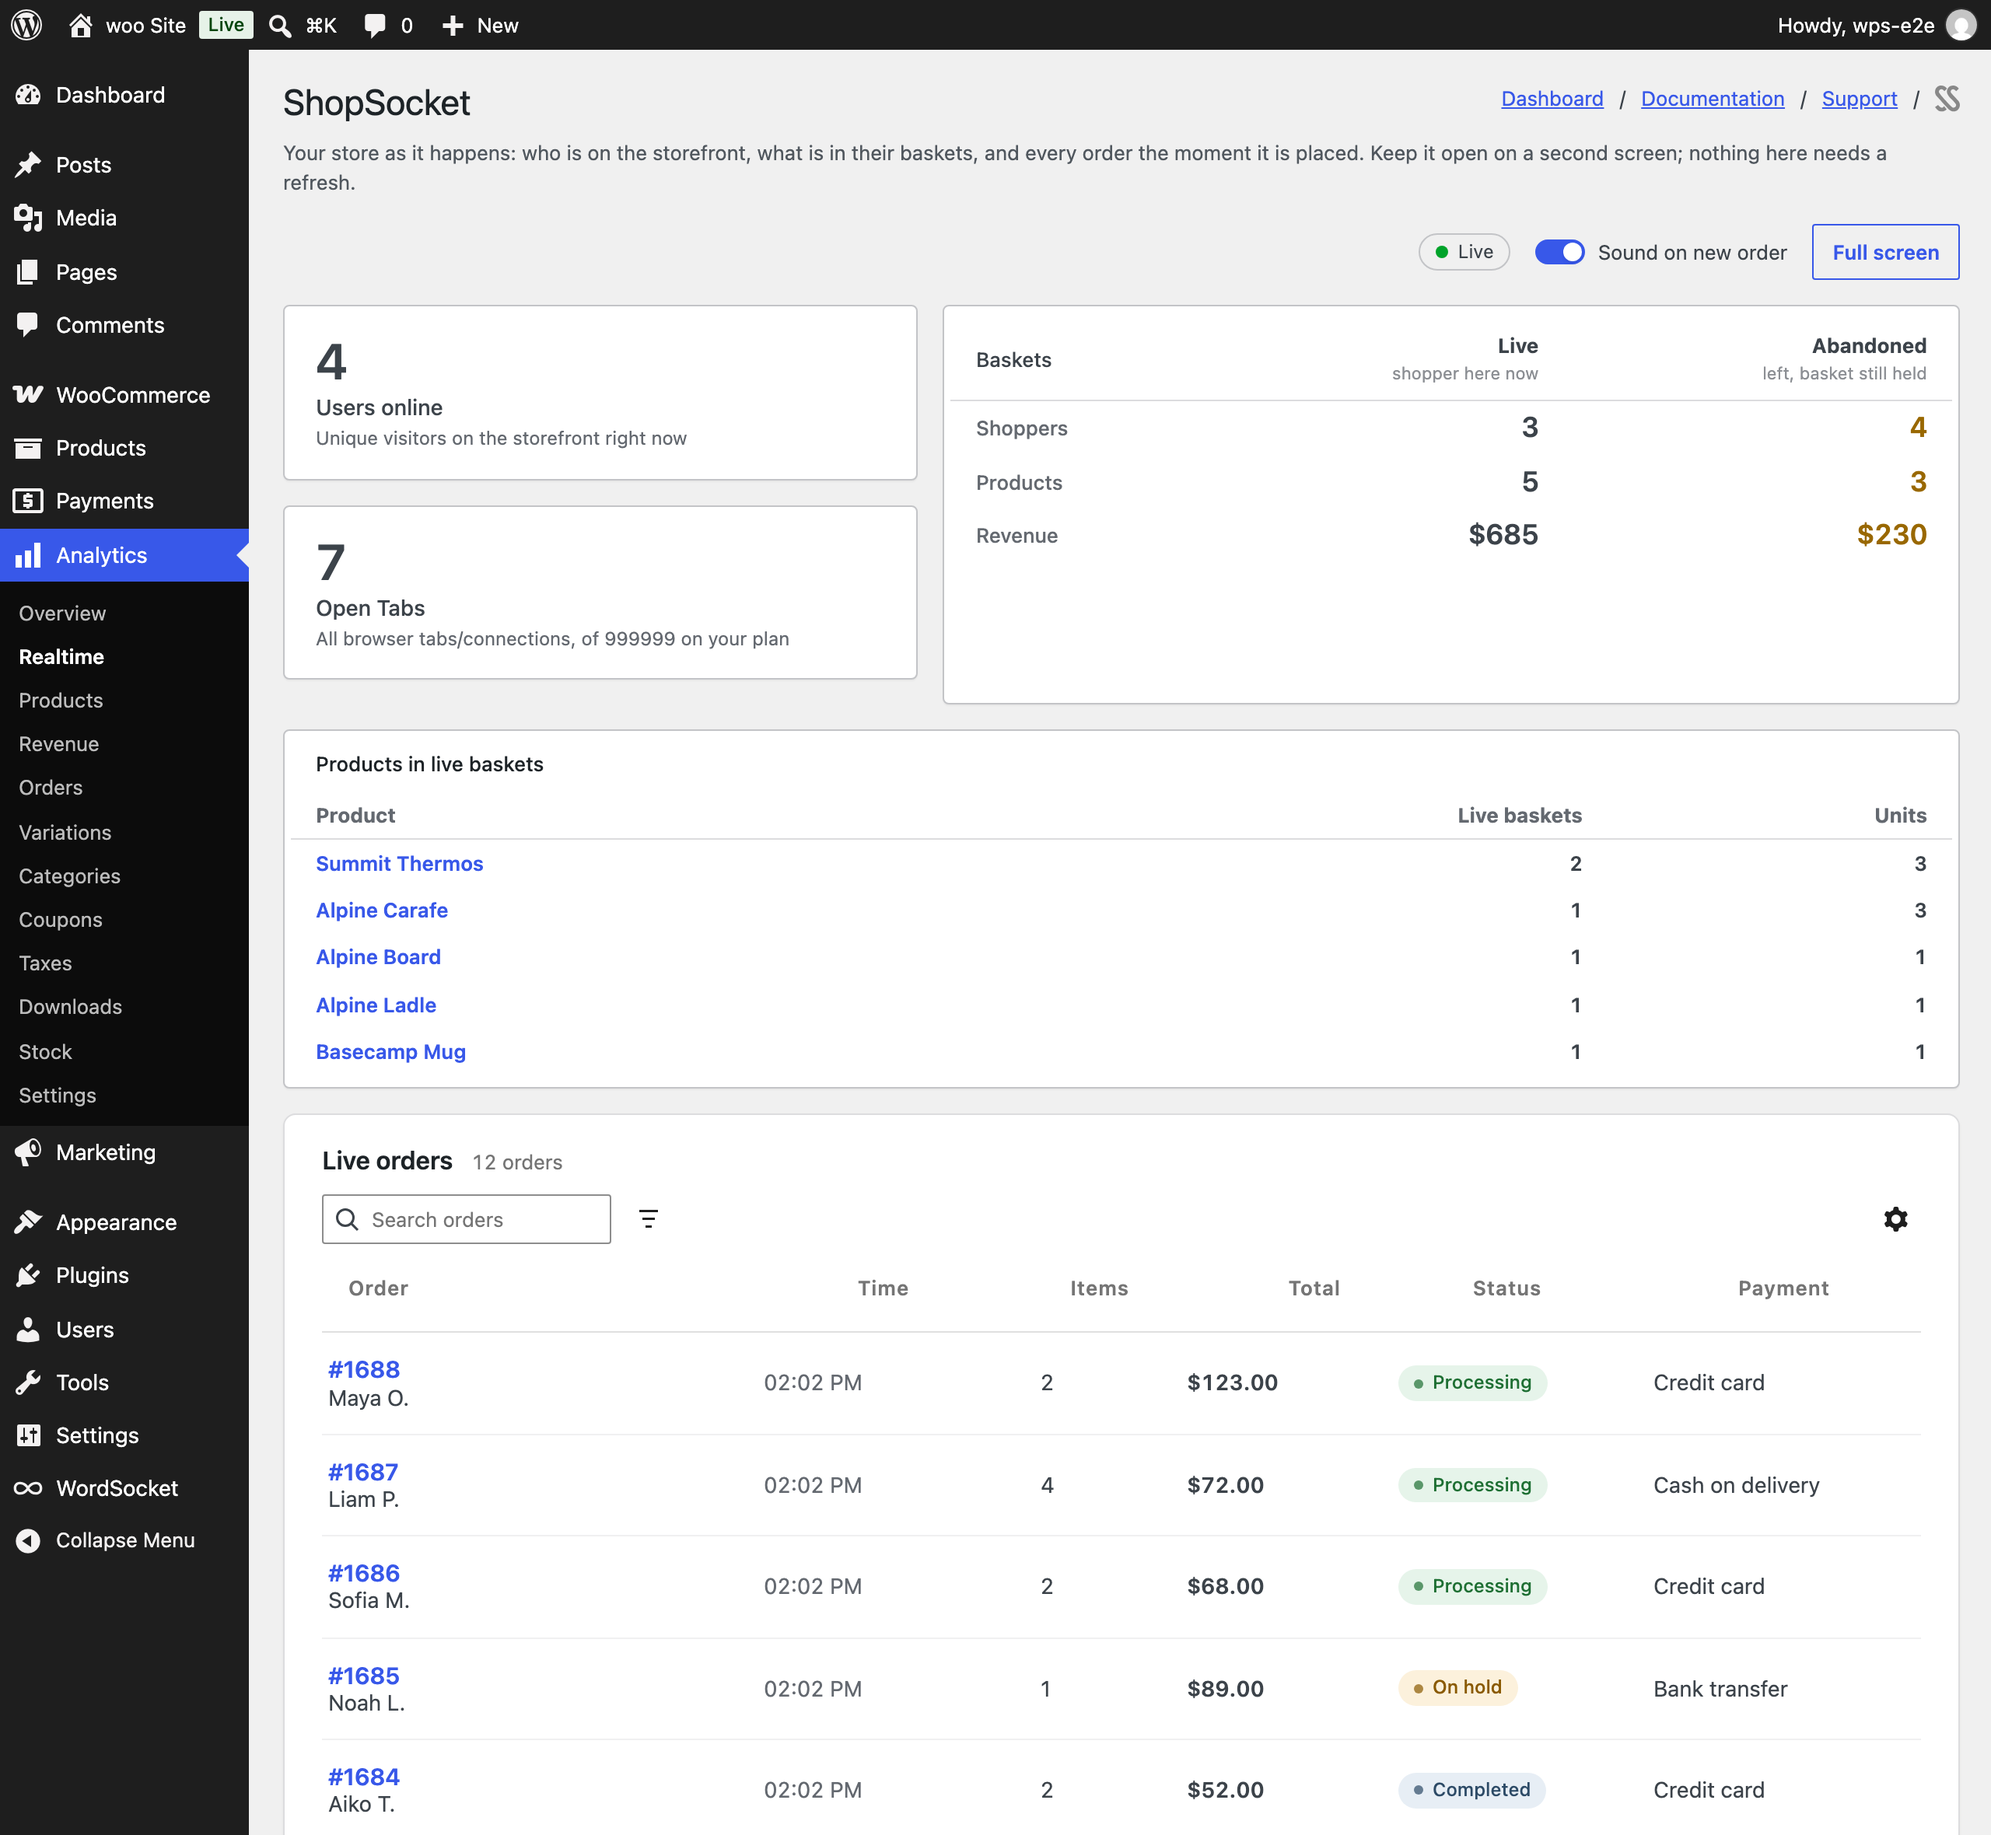
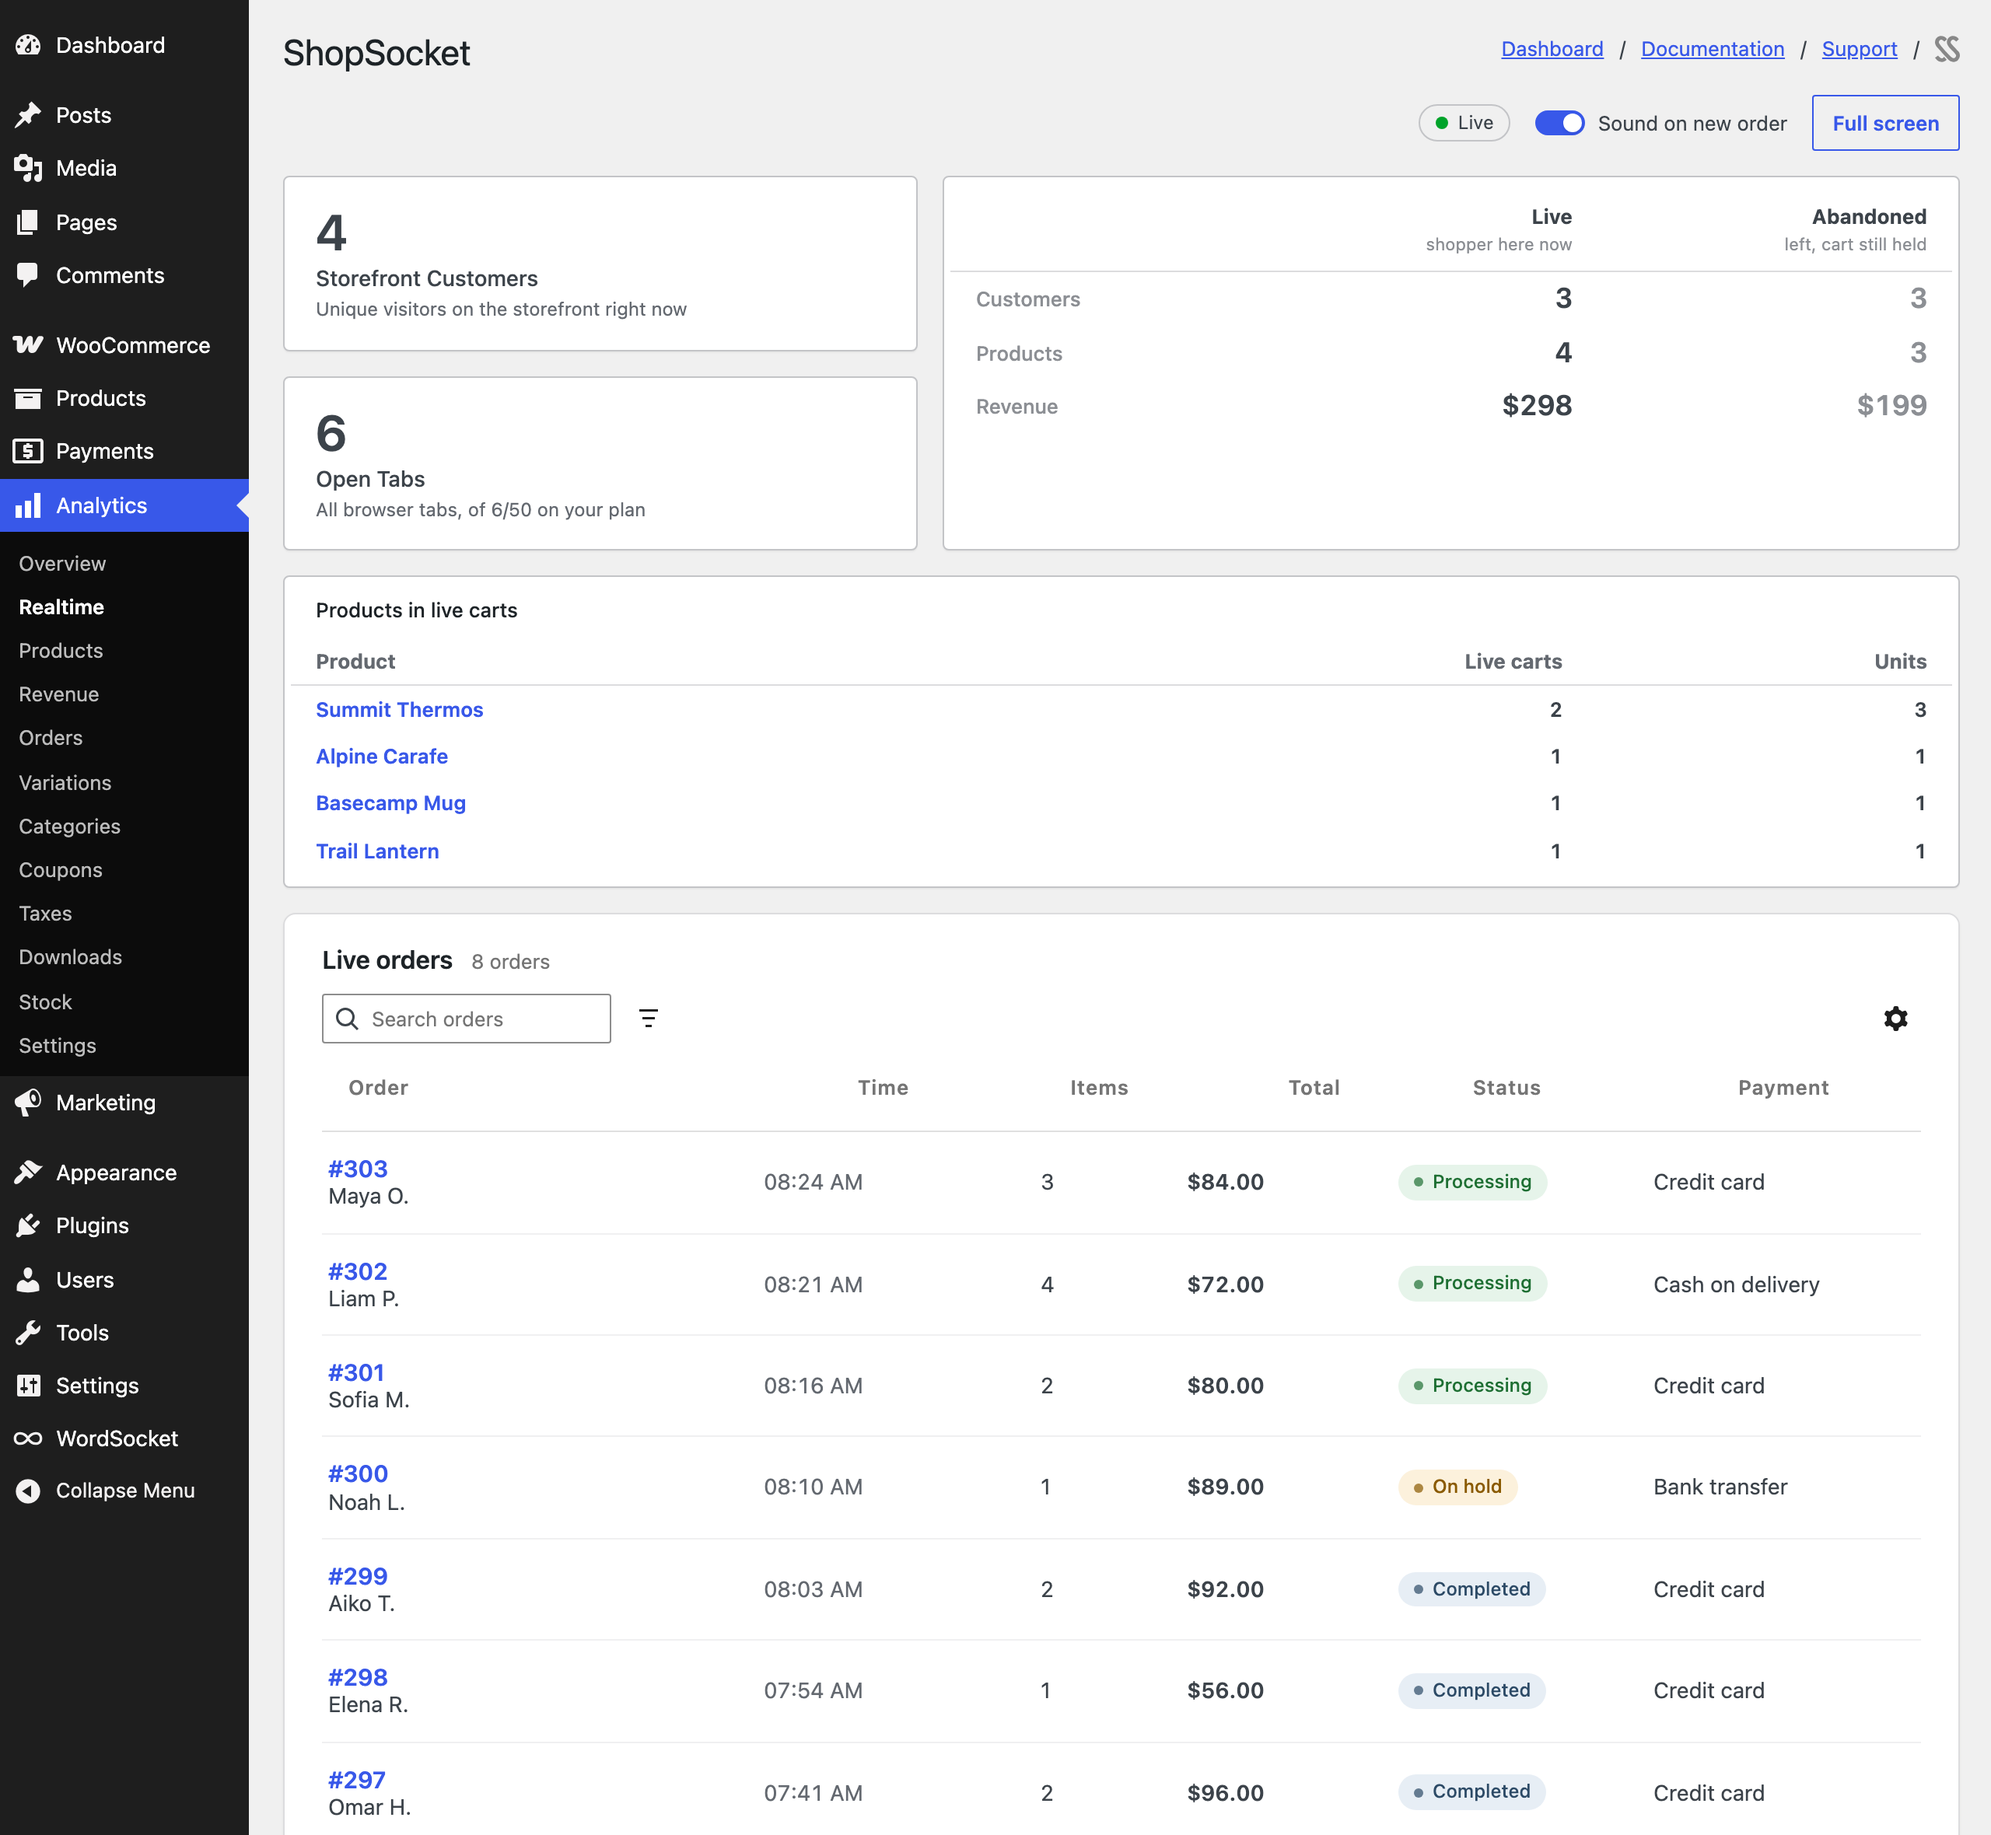
feat: adjusted screenshots to match latest

diff --git a/shopsocket/tests/shots/listing.shots.ts b/shopsocket/tests/shots/listing.shots.ts
@@ -1,0 +1,182 @@
+/**
+ * The first two WordPress.org screenshots, staged rather than drawn: a quiet
+ * board, then a busy one built from scripted shoppers on the storefront and
+ * demo orders. Written to `wporg-assets/` under the names `bin/dist.sh` picks
+ * up. Everything it creates is deleted afterwards, and the orders and cart
+ * rows the site already had are put back.
+ *
+ * Run with `npm run shots` (the plain-HTTP site and the rehearsal relay, as
+ * `npm run test:e2e:http`). Never against a site on the live relay.
+ */
+import "../e2e/env";
+import { resolve } from "node:path";
+import { expect, test } from "@wordpress/e2e-test-utils-playwright";
+import type { BrowserContext, Page } from "@playwright/test";
+import { wp } from "../e2e/env";
+import { addToCart, deleteOrder, deleteProduct, num, visitorContext, waitForLive } from "../e2e/helpers";
+
+const ASSETS = resolve(__dirname, "../../wporg-assets");
+
+const PRODUCTS = [
+  { name: "Summit Thermos", price: "48.00" },
+  { name: "Alpine Carafe", price: "62.00" },
+  { name: "Basecamp Mug", price: "18.00" },
+  { name: "Trail Lantern", price: "74.00" },
+  { name: "Ridge Blanket", price: "89.00" },
+  { name: "Canyon Kettle", price: "56.00" },
+] as const;
+
+/* Newest first, as the board lists them. `ago` is minutes before the shot. */
+const ORDERS = [
+  { first: "Maya", last: "Okafor", items: [[0, 1], [2, 2]], status: "processing", payment: "Credit card", ago: 1 },
+  { first: "Liam", last: "Petrov", items: [[2, 4]], status: "processing", payment: "Cash on delivery", ago: 4 },
+  { first: "Sofia", last: "Marin", items: [[1, 1], [2, 1]], status: "processing", payment: "Credit card", ago: 9 },
+  { first: "Noah", last: "Lindqvist", items: [[4, 1]], status: "on-hold", payment: "Bank transfer", ago: 15 },
+  { first: "Aiko", last: "Tanaka", items: [[3, 1], [2, 1]], status: "completed", payment: "Credit card", ago: 22 },
+  { first: "Elena", last: "Rossi", items: [[5, 1]], status: "completed", payment: "Credit card", ago: 31 },
+  { first: "Omar", last: "Haddad", items: [[0, 2]], status: "completed", payment: "Credit card", ago: 44 },
+  { first: "Grace", last: "Nwosu", items: [[1, 1]], status: "completed", payment: "Cash on delivery", ago: 58 },
+] as const;
+
+/* Each live shopper's cart as [product index, quantity]; the last one browses without a cart. */
+const LIVE_CARTS = [[[0, 2], [2, 1]], [[1, 1]], [[0, 1], [3, 1]], []] as const;
+const ABANDONED_CARTS = [[[4, 1]], [[2, 2]], [[5, 1], [2, 1]]] as const;
+
+/** Hide the toolbar and anything else that is the test site's rather than the plugin's. */
+const CHROME = `
+  #wpadminbar, #wpfooter, .notice, .update-nag, .woocommerce-layout__header, .woocommerce-store-alerts { display: none !important; }
+  html.wp-toolbar { padding-top: 0 !important; }
+  #adminmenu .update-plugins, #adminmenu .awaiting-mod, #adminmenu .menu-counter { display: none !important; }
+`;
+
+/*
+ * The rehearsal account that owns the test site is on the unlimited plan, so
+ * the Open Tabs tile reads "of N/999999". A new store is on the free plan:
+ * show its limit instead. This is the one figure on the board that is edited
+ * rather than produced; everything else is what the scripted store did.
+ */
+const FREE_PLAN_CONNECTIONS = "50";
+async function showFreePlanLimit(page: Page): Promise<void> {
+  await page.locator(".shopsocket-tile.is-connections .shopsocket-tile__detail").evaluate((el, limit) => {
+    el.textContent = (el.textContent ?? "").replace(/\/\d+/, `/${limit}`);
+  }, FREE_PLAN_CONNECTIONS);
+}
+
+async function fillCart(context: BrowserContext, permalinks: string[], cart: readonly (readonly [number, number])[]): Promise<Page> {
+  const page = await context.newPage();
+  if (cart.length === 0) {
+    await page.goto(permalinks[0]);
+    await waitForLive(page);
+    return page;
+  }
+  for (const [index, quantity] of cart) {
+    await page.goto(permalinks[index]);
+    await waitForLive(page);
+    const qty = page.locator("form.cart input.qty").first();
+    if (quantity > 1 && (await qty.count())) await qty.fill(String(quantity));
+    await addToCart(page);
+  }
+  return page;
+}
+
+test("stage the listing screenshots", async ({ admin, page, browser, baseURL, requestUtils }) => {
+  const savedCarts = wp("eval", "echo wp_json_encode( get_transient( 'shopsocket_carts' ) ?: array() );");
+  // "id:status" for every order the site already has, so each goes back as it was.
+  const parkedOrders = wp(
+    "eval",
+    "echo implode( ',', array_map( static fn( $o ) => $o->get_id() . ':' . $o->get_status(), wc_get_orders( array( 'limit' => -1 ) ) ) );",
+  )
+    .split(",")
+    .filter(Boolean)
+    .map((pair) => pair.split(":") as [string, string]);
+  const productIds: number[] = [];
+  const orderIds: number[] = [];
+  const visitors: BrowserContext[] = [];
+
+  try {
+    // A clean slate: the site's own orders step aside (trash is reversible) and old cart rows go.
+    for (const [id] of parkedOrders) wp("eval", `add_filter( 'pre_wp_mail', '__return_false' ); wc_get_order( ${id} )->update_status( 'trash' );`);
+    wp("eval", "delete_transient( 'shopsocket_carts' ); delete_transient( 'shopsocket_carts_pub' );");
+
+    await admin.visitAdminPage("admin.php", "page=shopsocket");
+    await page.addStyleTag({ content: CHROME });
+    await expect(page.getByRole("heading", { name: "ShopSocket", level: 1 })).toBeVisible();
+    await waitForLive(page);
+    await expect(page.locator(".shopsocket-conn")).toHaveText("Live");
+    await expect(page.locator(".shopsocket-tile.is-connections .shopsocket-tile__value")).toHaveText(/^\d+$/);
+
+    // 1: the board before the first shopper arrives.
+    await page.setViewportSize({ width: 1280, height: 980 });
+    await page.waitForTimeout(1_000);
+    await showFreePlanLimit(page);
+    await page.screenshot({ path: resolve(ASSETS, "wporg-screenshot-01.png") });
+
+    // The store: products, then shoppers who stay, shoppers who leave, and a morning of orders.
+    const permalinks: string[] = [];
+    for (const { name, price } of PRODUCTS) {
+      const product = await requestUtils.rest({
+        method: "POST",
+        path: "/wc/v3/products",
+        data: { name, type: "simple", regular_price: price, status: "publish" },
+      });
+      productIds.push(product.id);
+      permalinks.push(product.permalink);
+    }
+
+    for (const cart of LIVE_CARTS) {
+      const context = await visitorContext(browser, baseURL);
+      visitors.push(context);
+      await fillCart(context, permalinks, cart);
+    }
+    // One live shopper has a second tab open, as people do.
+    const second = await visitors[0].newPage();
+    await second.goto(permalinks[2]);
+    await waitForLive(second);
+
+    for (const cart of ABANDONED_CARTS) {
+      const context = await visitorContext(browser, baseURL);
+      await fillCart(context, permalinks, cart);
+      await context.close();
+    }
+
+    for (const order of [...ORDERS].reverse()) {
+      const created = await requestUtils.rest({
+        method: "POST",
+        path: "/wc/v3/orders",
+        data: {
+          status: order.status,
+          payment_method_title: order.payment,
+          billing: { first_name: order.first, last_name: order.last, email: `${order.first.toLowerCase()}@example.com` },
+          line_items: order.items.map(([index, quantity]) => ({ product_id: productIds[index], quantity })),
+        },
+      });
+      orderIds.push(created.id);
+      wp("eval", `$o = wc_get_order( ${created.id} ); $o->set_date_created( time() - ${order.ago * 60} ); $o->save();`);
+    }
+
+    // 2: the busy board, reloaded so the orders read in their final order and times.
+    await page.setViewportSize({ width: 1280, height: 1180 });
+    await admin.visitAdminPage("admin.php", "page=shopsocket");
+    await page.addStyleTag({ content: CHROME });
+    await waitForLive(page);
+    const rows = page.locator(".shopsocket-carts tbody tr");
+    await expect.poll(num(rows.nth(0).locator("td.is-live")), { timeout: 30_000 }).toBe(LIVE_CARTS.filter((c) => c.length).length);
+    await expect.poll(num(rows.nth(0).locator("td.is-abandoned")), { timeout: 30_000 }).toBe(ABANDONED_CARTS.length);
+    await expect(page.locator(".shopsocket-live-products a").first()).toBeVisible({ timeout: 15_000 });
+    await expect(page.getByText(`${ORDERS[0].first} ${ORDERS[0].last.charAt(0)}.`)).toBeVisible();
+    await page.waitForTimeout(1_500);
+    await showFreePlanLimit(page);
+    await page.screenshot({ path: resolve(ASSETS, "wporg-screenshot-02.png") });
+  } finally {
+    for (const context of visitors) await context.close().catch(() => {});
+    for (const id of orderIds) await deleteOrder(requestUtils, id).catch(() => {});
+    for (const id of productIds) await deleteProduct(requestUtils, id).catch(() => {});
+    for (const [id, status] of parkedOrders) {
+      wp("eval", `add_filter( 'pre_wp_mail', '__return_false' ); wc_get_order( ${id} )->update_status( '${status}' );`);
+    }
+    wp(
+      "eval",
+      `set_transient( 'shopsocket_carts', json_decode( '${savedCarts.replace(/'/g, "")}', true ), 2 * DAY_IN_SECONDS ); delete_transient( 'shopsocket_carts_pub' );`,
+    );
+  }
+});

diff --git a/shopsocket/playwright.shots.config.ts b/shopsocket/playwright.shots.config.ts
@@ -1,0 +1,32 @@
+import baseConfig from "./playwright.config";
+import { defineConfig, devices } from "@playwright/test";
+
+/**
+ * Stages the WordPress.org listing screenshots (`npm run shots`): the same
+ * rehearsal stack and guards as the E2E suite, pointed at `tests/shots/`,
+ * which the suite itself never runs. One worker, no retries: the scenario is
+ * a script, and a half-staged board is worse than a failure.
+ *
+ * The device settings sit on the project because the base config's project
+ * (`Desktop Chrome`, scale 1) would override anything set at the top level.
+ */
+export default defineConfig({
+  ...baseConfig,
+  testDir: "tests/shots",
+  testMatch: /.*\.shots\.ts$/,
+  workers: 1,
+  retries: 0,
+  timeout: 240_000,
+  projects: [
+    {
+      name: "chromium",
+      use: {
+        ...devices["Desktop Chrome"],
+        viewport: { width: 1280, height: 1180 },
+        deviceScaleFactor: 2,
+        video: "off",
+        trace: "off",
+      },
+    },
+  ],
+});
